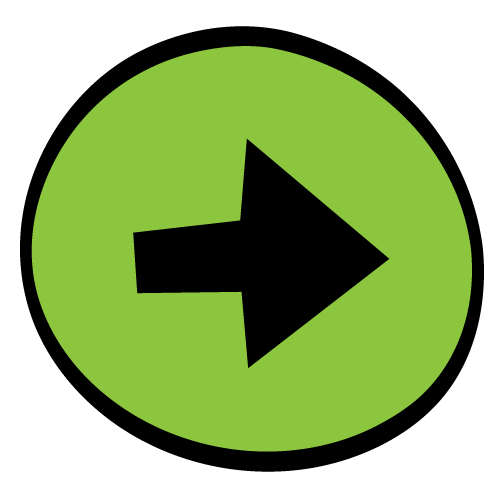
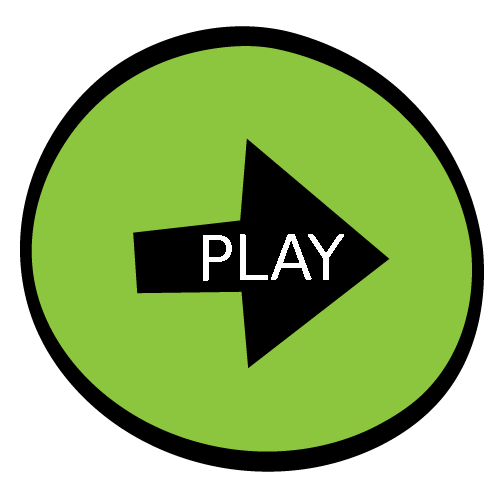
Changes after playtesting round 2
* Added more detailed "Wrong Answer" dialog
* Added more detailed "Correct Answer" dialog
* Added "PLAY" text on green start button

Changed region(s): [[0.45, 0.45, 0.69, 0.57], [0.39, 0.45, 0.45, 0.57]]

diff --git a/src/index.html b/src/index.html
@@ -6,6 +6,7 @@
     <meta http-equiv="Content-Type" content="text/html; charset=utf-8">
     <style> body {font-family: Ubuntu, sans-serif; } </style>
     <link rel="stylesheet" type="text/css" href="geografun.css" />
+    <link rel="stylesheet" href="https://cdnjs.cloudflare.com/ajax/libs/jqueryui/1.12.1/jquery-ui.css">
 
     <title>
       geografun
@@ -18,7 +19,7 @@
       var totalSeconds;
       var timer;
       var gf = {};
-      var minEntryCount = 3;
+      var minEntryCount = 0;
     </script>
 
     <!-- third-party libraries -->
@@ -27,6 +28,7 @@
     <script src="third_party/jquery-jvectormap-2.0.3.min.js"></script>
     <script src="third_party/jquery-jvectormap-world-mill.js"></script>
     <script src="https://cdnjs.cloudflare.com/ajax/libs/underscore.js/1.8.3/underscore-min.js"></script>
+    <script src="https://code.jquery.com/ui/1.12.1/jquery-ui.js"></script>
 
     <!-- load scripts -->
     <script type="text/javascript" src="geografun.js"> </script>
@@ -106,6 +108,12 @@
 
     <!-- create the guess dropdown -->
     <div id="eog">
+    </div>
+
+    <div style="display:none;">
+      <div id="dialog-wrong-answer" title="Wrong Answer">
+        <p><span class="ui-icon ui-icon-alert" style="float:left; margin:12px 12px 20px 0;"></span>Your answer was not correct. Would you like to continue or restart?</p>
+      </div>
     </div>
 
   </body>

diff --git a/src/geografun.js b/src/geografun.js
@@ -17,6 +17,7 @@ function gfStart()
   gf.guide = {};
   gf.guide.countries = [];
   gf.cluesFound = [];
+  gf.attempts = 1;
 
   // set the image counter and default location (optionally set a new location)
   gfSetLocation();
@@ -112,7 +113,7 @@ function gfSetLocation()
   // set a 'random' location
   // here we only use iceland
   gf.imageCounter = 0;
-  gf.location = "iceland";
+  gf.location = "Iceland";
   gf.nscene = iceland.nscene;
   gf.scene = iceland.scene;
 }
@@ -363,12 +364,25 @@ function checkIfCorrect()
 {
   var select = document.getElementById("selectEOG");
   var guess = select.value;
-  if (gf.location==guess.toLowerCase())
-    alert("correct!");
+  if (gf.location.toLowerCase()==guess.toLowerCase())
+    alert("Correct! The country was " + gf.location + ".\nTotal attempts = " + gf.attempts + "\nClues found = " + gf.cluesFound.length);
   else
   {
-    alert("wrong!");
-    location.reload();
+    $('#dialog-wrong-answer').dialog({
+      resizable: false,
+      height: 'auto',
+      width: 400,
+      modal: true,
+      buttons: {
+        "Restart": function() {
+          location.reload();
+        },
+        "Continue": function() {
+          gf.attempts += 1;
+          $( this ).dialog( "close" );
+        }
+      }
+    });
   }
 }
 
